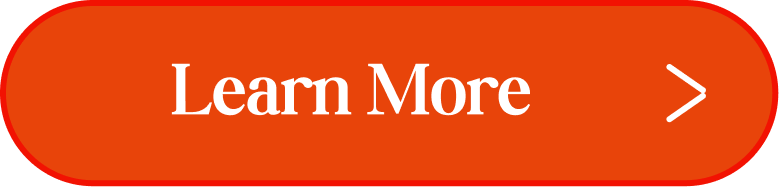
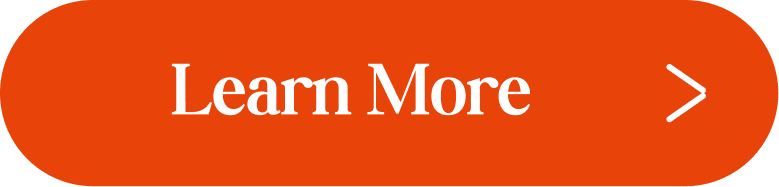
Changed measurement in index and reduced highlight projects to 3

Changed region(s): [[0.0, 0.1337, 1.0, 1.0], [0.0616, 0.0, 0.9551, 0.1337], [0.0308, 0.0802, 0.0616, 0.1872]]

diff --git a/index.html b/index.html
@@ -42,9 +42,9 @@
         
         <main  id="hero">
             <section class="hero">
-                <p>Hi, I am</p>
-                <img src="Assets/Images/Name.png  " alt="John Christoper">
-                <p>An aspiring Software Engineer and Graphic Designer</p>
+                <p class="typewriter">Hi, I am</p>
+                <img src="Assets/Images/home_name_glass.png" alt="John Christoper">
+                <p class="typewriter">An aspiring Software Engineer and Graphic Designer</p>
             </section>
 
             <section class="about">
@@ -53,9 +53,8 @@
                 <img src="Assets/Images/circle-img.png" alt="Image of circles">
 
                 <div class="about-ratio">
-                    <img src="Assets/Images/circle-img2.png" alt="Image of circles">
 
-                    <p class="introduction">I'm a Information Technology student 
+                    <p class="introduction typewriter">I'm a Information Technology student 
 developing expertise across software development 
 and visual design. I work with tools like Java, 
 Spring Boot, Python, and JavaScript on the 
@@ -64,13 +63,11 @@ for design — driven by a belief that great products
 are both technically sound and beautifully crafted.</p>
 
                     <button class="learn-ratio">
-                        <img class="learn-btn-background" src="Assets/Images/learn_more_button.png" alt="Image of unhovered button">
+                        <img class="learn-btn-background" src="Assets/Images/Learn More Button.png" alt="Image of unhovered button">
                         <div class="learn-btn-arrow-mask">  
                             <img class="learn-btn-arrow" src="Assets/Images/arrow.png" alt="Image of a hovered button">                        
                         </div>
                     </button>
-
-                    <img src="Assets/Images/vintage-frame-line2.png" alt="Image of a vintage frame line">
                 </div>
             </section>
 
@@ -85,67 +82,45 @@ are both technically sound and beautifully crafted.</p>
                             <img src="Assets/Images/Scrapbook_Figma_Design.png" alt="">
                         </div>
                         <p class="project-name">Scrap Book Prototype</p>
-                        <p class="project-tools">UI/UX · Figma</p>
+                        <hr>
                         <p class="project-desc">A high-fidelity Figma prototype with a glassmorphism aesthetic, 
                             designed as a digital journal documenting my journey through 
                             development and design — blending creative vision with 
                             personal reflection.</p>
+                        <div class="tools">
+                            <p>Figma</p>
+                        </div>
+                        
                     </div>
                     <div class="item">
                         <div class="item-img-wrapper">
                             <img src="Assets/Images/House_of_Origami_Website.png" alt="">
                         </div>
                         <p class="project-name">House of Origami</p>
-                        <p class="project-tools">Web Design · HTML & CSS</p>
+                        <hr>
                         <p class="project-desc">A multi-page HTML and CSS web interface combining educational 
                             content with modern design, using a clean layout, grid-based 
                             lessons, and custom styling for clear navigation and a 
                             consistent brand identity.</p>
+                        <div class="tools">
+                            <p>HTML</p>
+                            <p>CSS</p>
+                        </div>
                     </div>
                     <div class="item">
                         <div class="item-img-wrapper">
-                            <img src="Assets/Images/Youtube_Simple_Clone.png" alt="">
+                            <img src="Assets/Images/Library_Management_System2.png" alt="">
                         </div>
-                        <p class="project-name">Static Youtube Clone</p>
-                        <p class="project-tools">HTML · CSS</p>
+                        <p class="project-name">Library Management System</p>
+                        <hr>
                         <p class="project-desc">A simple YouTube homepage clone created with HTML and CSS, 
                             focusing on layout replication using grid, positioning, 
                             and modern styling techniques. This project recreates the 
                             interface design without interactive functionality.</p>
-                    </div>
-                    <div class="item">
-                        <div class="item-img-wrapper">
-                            <img src="Assets/Images/Business_Card_Front.png" alt="">
+                        <div class="tools">
+                            <p>Java</p>
+                            <p>JSON</p>
                         </div>
-                        <p class="project-name">Business Card Design</p>
-                        <p class="project-tools">Adobe Photoshop</p>
-                        <p class="project-desc">A modern business card design created in Adobe Photoshop 
-                            using a gold and navy color palette, featuring geometric 
-                            elements and a clean layout to present professional 
-                            contact information.</p>
-                    </div>
-                    <div class="item">
-                        <div class="item-img-wrapper">
-                            <img src="Assets/Images/Burger_Promotional_Flyer_1.png" alt="">
-                        </div>
-                        <p class="project-name">Burger Promotional Flyer</p>
-                        <p class="project-tools">Adobe Photoshop</p>
-                        <p class="project-desc">A food promotional flyer designed in Adobe Photoshop 
-                            using dark backgrounds and warm amber tones to highlight 
-                            a limited-time offer, focusing on strong visual hierarchy 
-                            and an effective call to action.</p>
-                    </div>
-                    <div class="item">
-                        <div class="item-img-wrapper">
-                            <img src="Assets/Images/Cisco_Activity.png" alt="">
-                        </div>
-                        <p class="project-name">ValAce Branches Simulation</p>
-                        <p class="project-tools">Networking · Cisco Packet Tracer</p>
-                        <p class="project-desc">A Cisco Packet Tracer network simulation of the ValAce 
-                            branches using a hub-and-spoke topology centered at 
-                            the Malinta main office. The project demonstrates WAN 
-                            connectivity between multiple branch LANs using routers 
-                            and switches.</p>
                     </div>
                 </div> 
 

diff --git a/css/indexStyle.css b/css/indexStyle.css
@@ -3,10 +3,11 @@
     --rangoongreen: #161616;
     --cta: #E8440A;
     --muted: #555;
+    --accent: #B89A6A;
 }
 
 main {
-    padding-top: 12vh;  
+    padding-top: 5rem;  
     height: auto;
 }
 
@@ -14,13 +15,13 @@ main {
     display: flex;
     flex-direction: column;
     width: 100%;
-    height: 88vh;
+    height: 31rem;
 }
 
 .hero p {
     position: relative;
     width: fit-content;
-    font-family: 'Pristina';
+    font-family: 'Dancing Script';
     font-size: 24px;
     color: var(--barleywhite);
 }
@@ -51,7 +52,7 @@ main {
 
 .about > img:first-child {
     align-self: center;
-    width: 20vw;
+    width: 13rem;
 }
 
 hr {
@@ -65,7 +66,7 @@ hr {
     margin-top: 1%;
     margin-right: 5%;
     align-self: flex-end;
-    width: 3vw;
+    width: 2rem;
 }
 
 .about-ratio {
@@ -78,25 +79,19 @@ hr {
     background-color: var(--barleywhite);
 }
 
-.about-ratio > img:first-child{
-    width: 3vw;
-    height: 3vh;
-    margin-top: 2vh;
-    margin-left: 2vw;
-}
-
 .introduction {
     white-space: pre-line;
-    margin: 4vh 0px 0px 2vw;
-    font-size: clamp(14px, 4vw, 45px);
+    margin: 1rem 0 1rem 2rem;
+    font-size: 2.8rem;
     font-family: 'DM Serif Display';
 }
 
 .learn-ratio {
     position: relative;
-    width: 17vw;
-    height: 9vh;
-    margin-left: 5vw;
+    width: 14rem;
+    height: 3.5rem;
+    margin-left: 3rem;
+    margin-bottom: 3rem;
     padding: 0;
     border: none;
     background: none;
@@ -146,7 +141,6 @@ hr {
 .highlights {
     display: flex;
     flex-direction: column;
-    height: 233vh;
 }
 
 .highlights-header {
@@ -192,25 +186,25 @@ hr {
     box-sizing: border-box;
     overflow: hidden;
     width: 100%;
-    height: 80vh;
-    border-radius: 1vw;
+    height: 30rem;
+    border-radius: 10px;
+    border: 1px solid var(--barleywhite);
     padding:3% 4%;
-    background-color: var(--barleywhite);
+    background-color: var(--rangoongreen);
 }
 
 .item-img-wrapper {
     box-sizing: border-box;
     overflow: hidden;
-    margin: 0vh 0vh 2vh 0vh;
     width: 100%;
-    height: 45%;
+    height: 12rem;
 }
 
 .item-img-wrapper > img {
     object-fit: cover;
     width: 100%;
     height: 100%;
-    border-radius: 2vh;
+    border-radius: 5px 5px 0 0;
     transition: transform 0.4s ease;
 }
 
@@ -219,24 +213,41 @@ hr {
     filter: brightness(0.8);
 }
 
+.item > hr {
+    width: 10%;
+    align-self: flex-start;
+}
+
 .project-name {
-    margin: 2vh 0vh 0vh 0vh;
-    font-size: 26px;
+    margin: 1rem 0 0.5rem 0;
+    font-size: 1.2rem;
+    color: var(--barleywhite);
     font-family: 'DM Serif Display';
 }
 
-.project-tools {
-    margin: 0;
-    font-size: 3vh;
-    font-weight: bold;
+.project-desc {
+    font-size: 0.9rem;
+    color: var(--accent);
 }
 
-.project-desc {
-    position: absolute;
-    margin: 0;
-    left: 4%;
-    top: 67%;
-    font-size: 1rem;
+.tools {
+    display: flex;
+    flex-direction: row;
+    margin-top: auto;
+}
+
+.tools > p {
+    margin-right: 1rem;
+    padding: 0.2rem 0.9rem;
+    font-size: 0.6rem;
+    border: 1px solid var(--muted);
+    color: var(--barleywhite);
+    background-color: var(--muted);
+}
+
+.tools > p:hover {
+    background-color: var(--rangoongreen);
+    border: 1px solid var(--barleywhite);
 }
 
 .view-button {
@@ -246,7 +257,7 @@ hr {
     flex-direction: row;
     align-items: center;
     justify-content: center;
-    margin: 5vh 0vh 5vh 0vh;
+    margin: 3rem 0;
     width: 25%;
     height: 5%;
     padding: 0;
@@ -254,15 +265,19 @@ hr {
     border: 1px solid var(--barleywhite);
 }   
 
-.view-button > p {
+.view-button > p:not(:nth-child(3)) {
     z-index: 3;
     font-family: 'DM Serif Display';
     color: var(--barleywhite);
+    margin: 1rem 0;
 }
 
 .view-button >p:nth-child(3) {
-    margin: 0vw 5vw 0vw;
+    margin: 0 3rem;
     font-size: large;
+    z-index: 3;
+    font-family: 'DM Serif Display';
+    color: var(--barleywhite);
 }
 
 .view-mask {
@@ -277,7 +292,7 @@ hr {
 }
 
 .view-button:hover {
-    border-color: rgb(0, 0, 0, 0);
+    border-color: var(--cta);
 }
 
 .view-button:hover .view-mask {
@@ -290,25 +305,13 @@ hr {
 
 .highlights > img:last-child {
     align-self: center;
-    width: 20vw;
+    width: 15rem;
     transform: rotate( 180deg);
 }
 
 @media (max-width: 1024px) {
-    .learn-ratio {
-        height: 7vh;
-    }
-
-    .highlights {
-        height: 187vh;
-    }
-
     .highlights-header > p {  
         margin: 0;
-    }
-
-    .about-ratio {
-        margin-bottom: 5vh;
     }
 
     .projects-grid {
